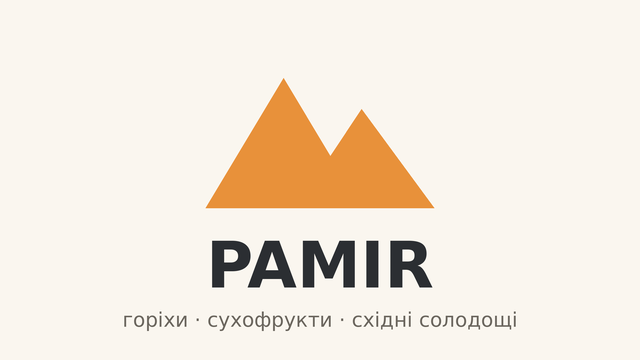
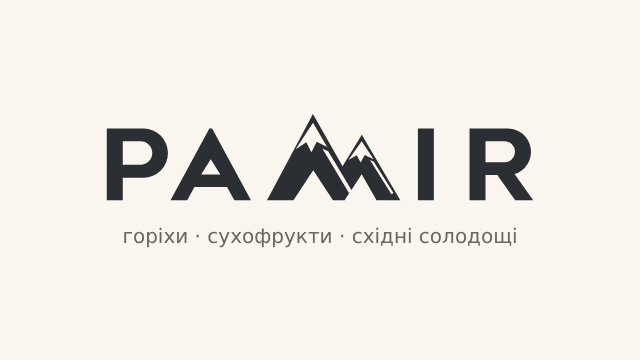
Логотип PAMIR: шапка витрины, заглушка фото, картинка для BotFather
Claude-Session: https://claude.ai/code/session_01FhhbD92RPy4YJVuC82W9Tk

diff --git a/webapp/index.html b/webapp/index.html
@@ -9,25 +9,23 @@
   <link rel="preconnect" href="https://fonts.googleapis.com">
   <link rel="preconnect" href="https://fonts.gstatic.com" crossorigin>
   <link href="https://fonts.googleapis.com/css2?family=Manrope:wght@400;500;600;700&family=Unbounded:wght@600&display=swap" rel="stylesheet">
-  <link rel="stylesheet" href="styles.css?v=3">
+  <link rel="stylesheet" href="styles.css?v=4">
   <script src="https://telegram.org/js/telegram-web-app.js"></script>
 </head>
 <body data-view="catalog">
-  <!-- Знак гор PAMIR и иконки, на которые ссылаются карточки -->
+  <!-- Логотип PAMIR (webapp/logo.svg), знак гор из него же и иконки, на которые ссылаются карточки -->
   <svg width="0" height="0" style="position:absolute" aria-hidden="true">
-    <symbol id="mark" viewBox="0 0 48 32">
-      <path d="M2 30 17 5l9 15 6-9 14 19Z"/>
+    <symbol id="mark" viewBox="735 319 380 249">
+      <path fill-rule="evenodd" d="M739.86 563.36 L813.33 563.36 L868.17 479.72 L923.01 563.36 L955.35 563.36 L967.92 543.59 L893.74 419.96 L909.74 426.70 L974.32 534.34 L1002.77 491.03 L1044.01 563.36 L1110.05 563.36 L1003.11 380.89 L949.63 468.87 L867.37 323.64 Z M867.60 348.10 L906.79 415.51 L877.88 400.77 L863.14 429.79 L849.09 402.25 L819.38 421.22 Z M1002.65 399.51 L1035.92 449.28 L1011.11 437.33 L999.79 457.90 L989.03 438.27 L965.86 451.61 Z M1025.55 451.38 L1036.47 456.41 L1091.09 543.25 L1085.33 546.45 L1028.70 456.41 Z"/>
     </symbol>
+    <symbol id="logo" viewBox="290 318 1194 251"><path fill-rule="evenodd" d="M295.00 363.60 L397.12 363.60 A68.46 68.46 0 0 1 397.12 500.51 L339.33 500.51 L339.33 563.36 L295.00 563.36 Z M339.33 399.17 L388.54 399.17 A32.71 32.71 0 0 1 388.54 464.60 L339.33 464.60 Z"/><path fill-rule="evenodd" d="M579.79 363.60 L587.42 363.60 L695.29 563.36 L649.06 563.36 L628.88 525.99 L538.34 525.99 L518.16 563.36 L471.92 563.36 Z M583.61 449.22 L610.21 491.42 L557.00 491.42 Z"/><path fill-rule="evenodd" d="M739.86 563.36 L813.33 563.36 L868.17 479.72 L923.01 563.36 L955.35 563.36 L967.92 543.59 L893.74 419.96 L909.74 426.70 L974.32 534.34 L1002.77 491.03 L1044.01 563.36 L1110.05 563.36 L1003.11 380.89 L949.63 468.87 L867.37 323.64 Z M867.60 348.10 L906.79 415.51 L877.88 400.77 L863.14 429.79 L849.09 402.25 L819.38 421.22 Z M1002.65 399.51 L1035.92 449.28 L1011.11 437.33 L999.79 457.90 L989.03 438.27 L965.86 451.61 Z M1025.55 451.38 L1036.47 456.41 L1091.09 543.25 L1085.33 546.45 L1028.70 456.41 Z"/><path fill-rule="evenodd" d="M1158.88 363.60 L1203.21 363.60 L1203.21 563.36 L1158.88 563.36 Z"/><path fill-rule="evenodd" d="M1302.25 363.60 L1408.02 363.60 A64.81 64.81 0 0 1 1427.27 490.29 L1479.00 563.36 L1429.06 563.36 L1379.40 493.22 L1346.57 493.22 L1346.57 563.36 L1302.25 563.36 Z M1346.57 399.17 L1399.26 399.17 A29.23 29.23 0 0 1 1399.26 457.64 L1346.57 457.64 Z"/></symbol>
     <symbol id="i-plus" viewBox="0 0 24 24"><path d="M5 12h14"/><path d="M12 5v14"/></symbol>
   </svg>
 
   <div id="banner" class="banner" hidden></div>
 
   <header class="top">
-    <div class="brand">
-      <svg class="brand__mark" aria-hidden="true"><use href="#mark"/></svg>
-      <h1 class="brand__name">PAMIR</h1>
-    </div>
+    <h1 class="brand"><svg class="brand__logo" role="img" aria-label="PAMIR"><use href="#logo"/></svg></h1>
     <div class="lang" role="group" aria-label="Мова / Язык">
       <button type="button" data-lang="ua" aria-pressed="true">UA</button>
       <button type="button" data-lang="ru" aria-pressed="false">RU</button>
@@ -59,7 +57,7 @@
   <div id="backdrop" class="backdrop" hidden></div>
   <section id="sheet" class="sheet" role="dialog" aria-modal="true" aria-labelledby="sheetTitle" hidden></section>
 
-  <script src="config.js?v=3"></script>
-  <script src="app.js?v=3"></script>
+  <script src="config.js?v=4"></script>
+  <script src="app.js?v=4"></script>
 </body>
 </html>

diff --git a/webapp/styles.css b/webapp/styles.css
@@ -105,13 +105,8 @@ button { cursor: pointer; }
   padding: var(--space-4) var(--space-4) var(--space-2);
   max-width: 720px; margin: 0 auto;
 }
-.brand { display: flex; align-items: center; gap: var(--space-2); min-width: 0; }
-.brand__mark { width: 36px; height: 24px; fill: var(--apricot); flex: none; }
-.brand__name {
-  margin: 0;
-  font-family: var(--font-display);
-  font-size: 26px; line-height: 32px; font-weight: 600; letter-spacing: -.01em;
-}
+.brand { margin: 0; min-width: 0; display: flex; align-items: center; }
+.brand__logo { display: block; height: 32px; width: auto; aspect-ratio: 1194 / 251; fill: var(--ink); }
 
 .lang {
   display: inline-flex; flex: none;
@@ -184,7 +179,7 @@ button { cursor: pointer; }
   border-radius: var(--radius-md); background: var(--surface-sunken);
 }
 .card__img img { width: 100%; height: 100%; object-fit: cover; display: block; }
-.mark { width: 44%; height: auto; aspect-ratio: 3 / 2; fill: var(--ink-muted); opacity: .25; }
+.mark { width: 44%; height: auto; aspect-ratio: 380 / 249; fill: var(--ink-muted); opacity: .25; }
 .card__img .badge { position: absolute; top: var(--space-2); left: var(--space-2); }
 .card__name {
   margin: 0; min-height: 40px;
